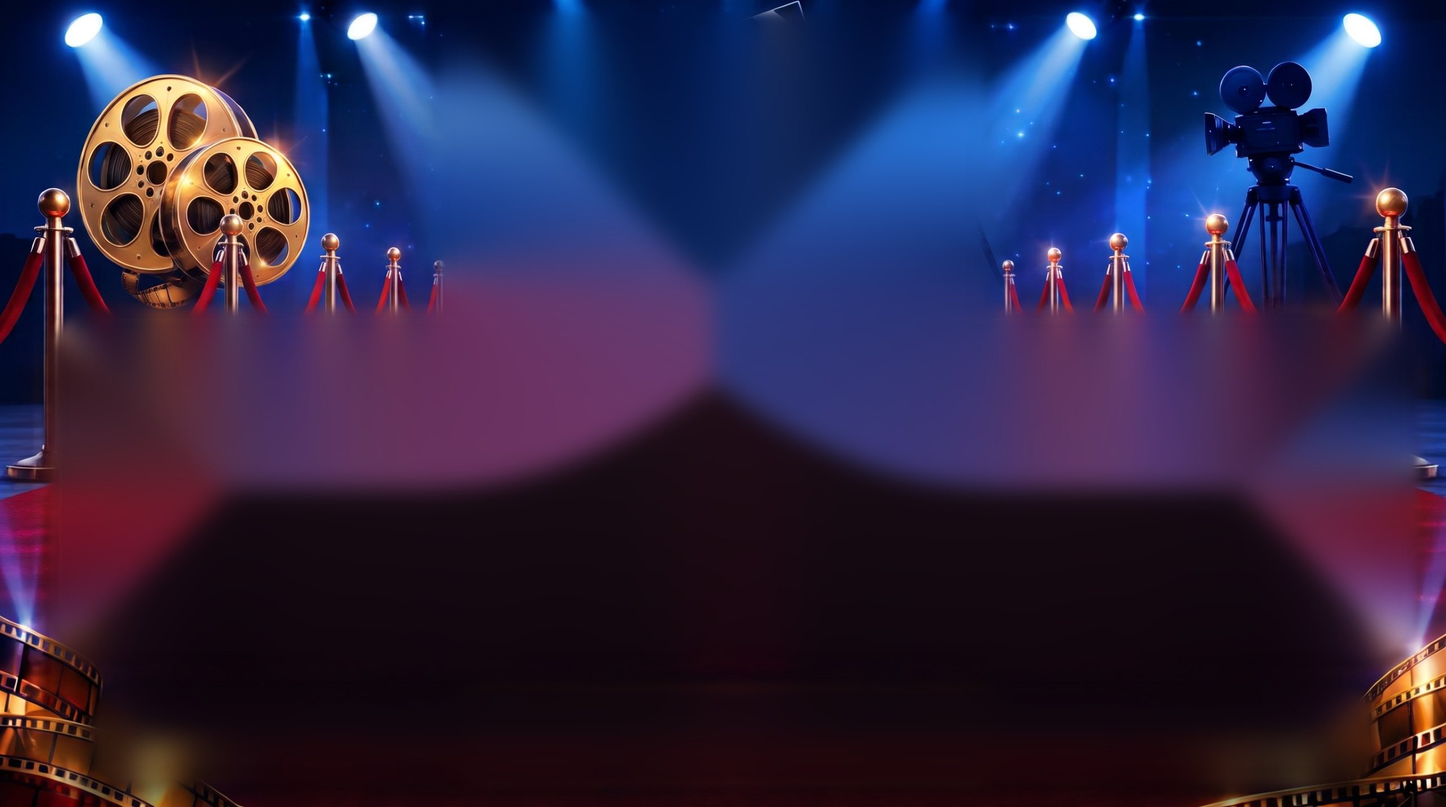
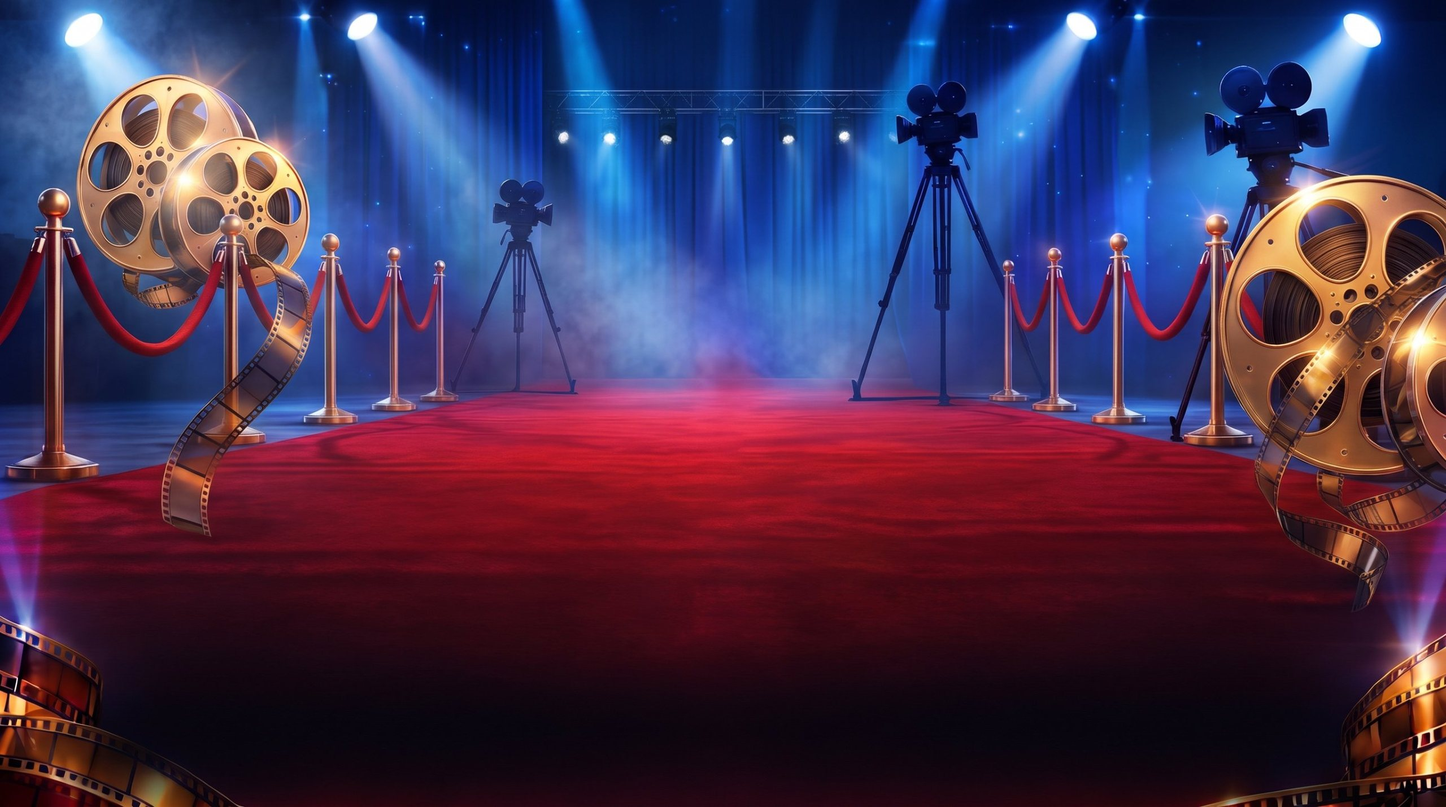
TV: new red-carpet stage background on every screen
Claude-Session: https://claude.ai/code/session_01E7i5voSAPdNoQ66HiR4fMC

diff --git a/index.html b/index.html
@@ -13,7 +13,7 @@
 <link rel="stylesheet" href="css/style.css?v=1795416919">
 </head>
 <body>
-<div class="bg photo" aria-hidden="true"><img class="bg-wide" src="img/background-tv.jpg" alt=""><img class="bg-blur" src="img/background.jpg" alt=""><img class="bg-main" src="img/background.jpg" alt=""></div>
+<div class="bg photo" aria-hidden="true"><img class="bg-wide" src="img/background-tv.jpg?v=1795417697" alt=""><img class="bg-blur" src="img/background.jpg" alt=""><img class="bg-main" src="img/background.jpg" alt=""></div>
 <div class="wrap">
  <header class="marquee"><div class="bulbs" id="bulbs"></div>
   <img class="lg-art" src="img/logo-tv.jpg?v=1795417602" alt="" aria-hidden="true"><img class="lg-words" src="img/logo-words.png?v=1795416919" alt="" aria-hidden="true">
